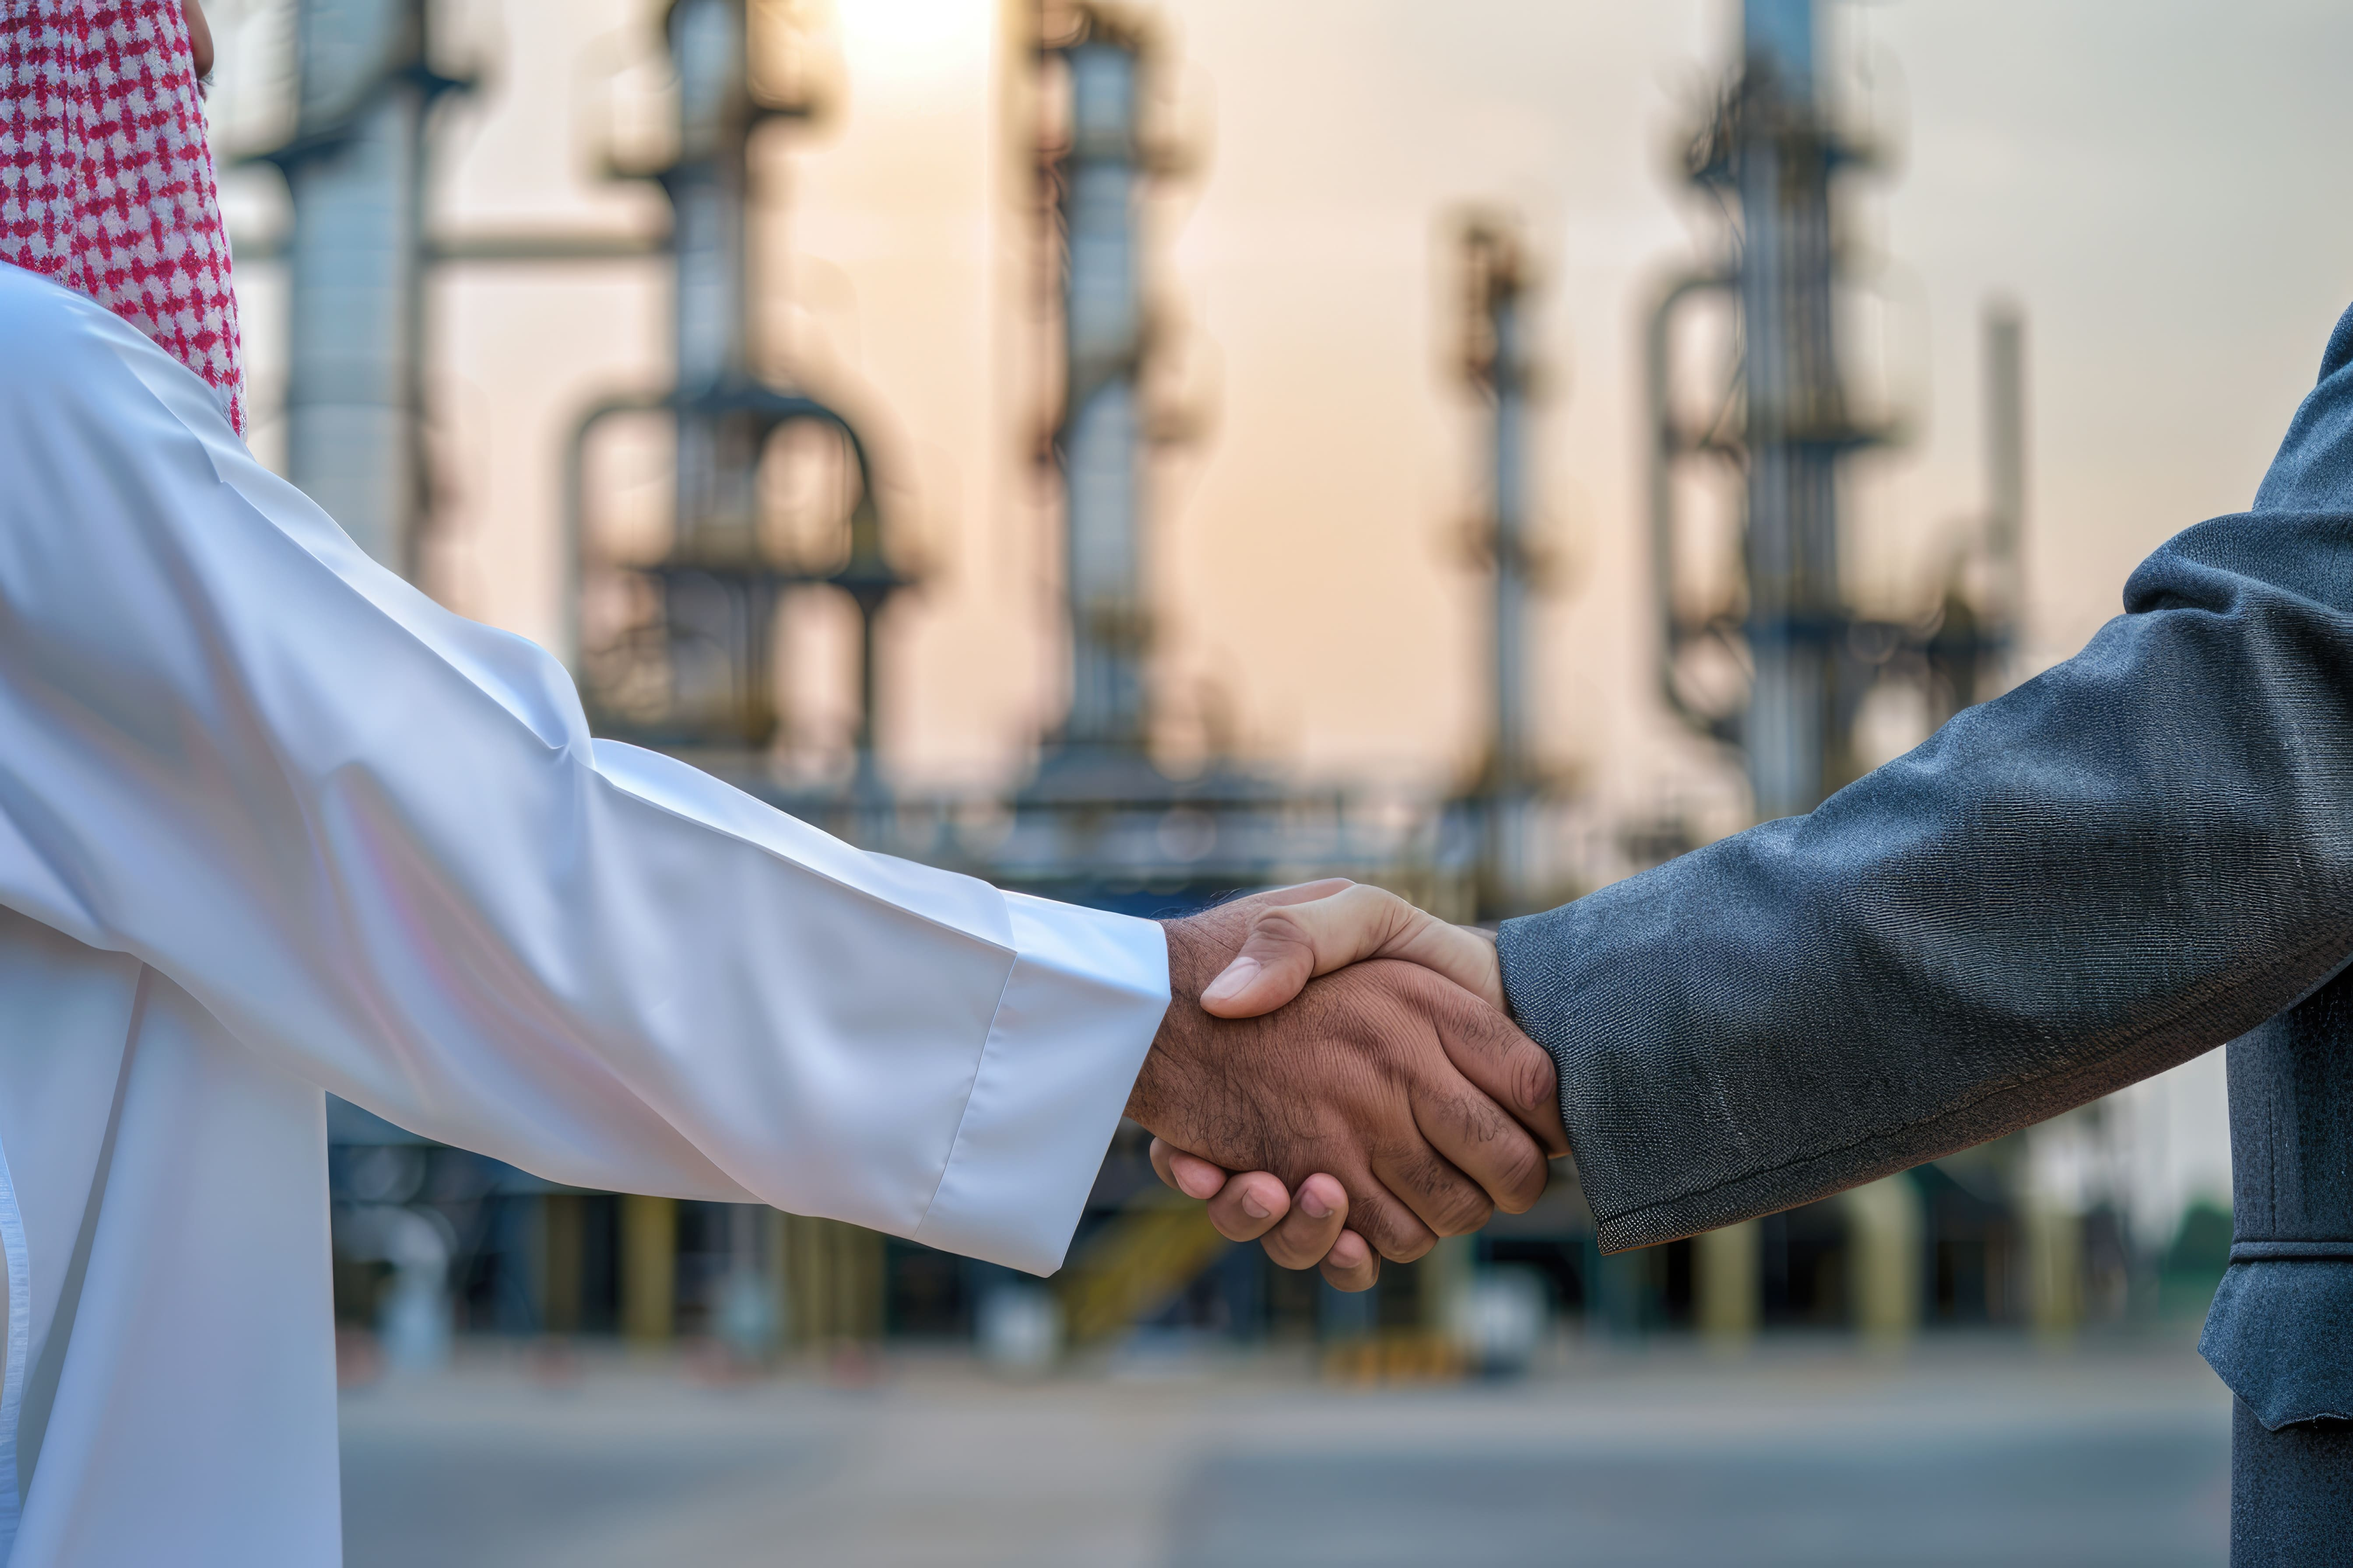
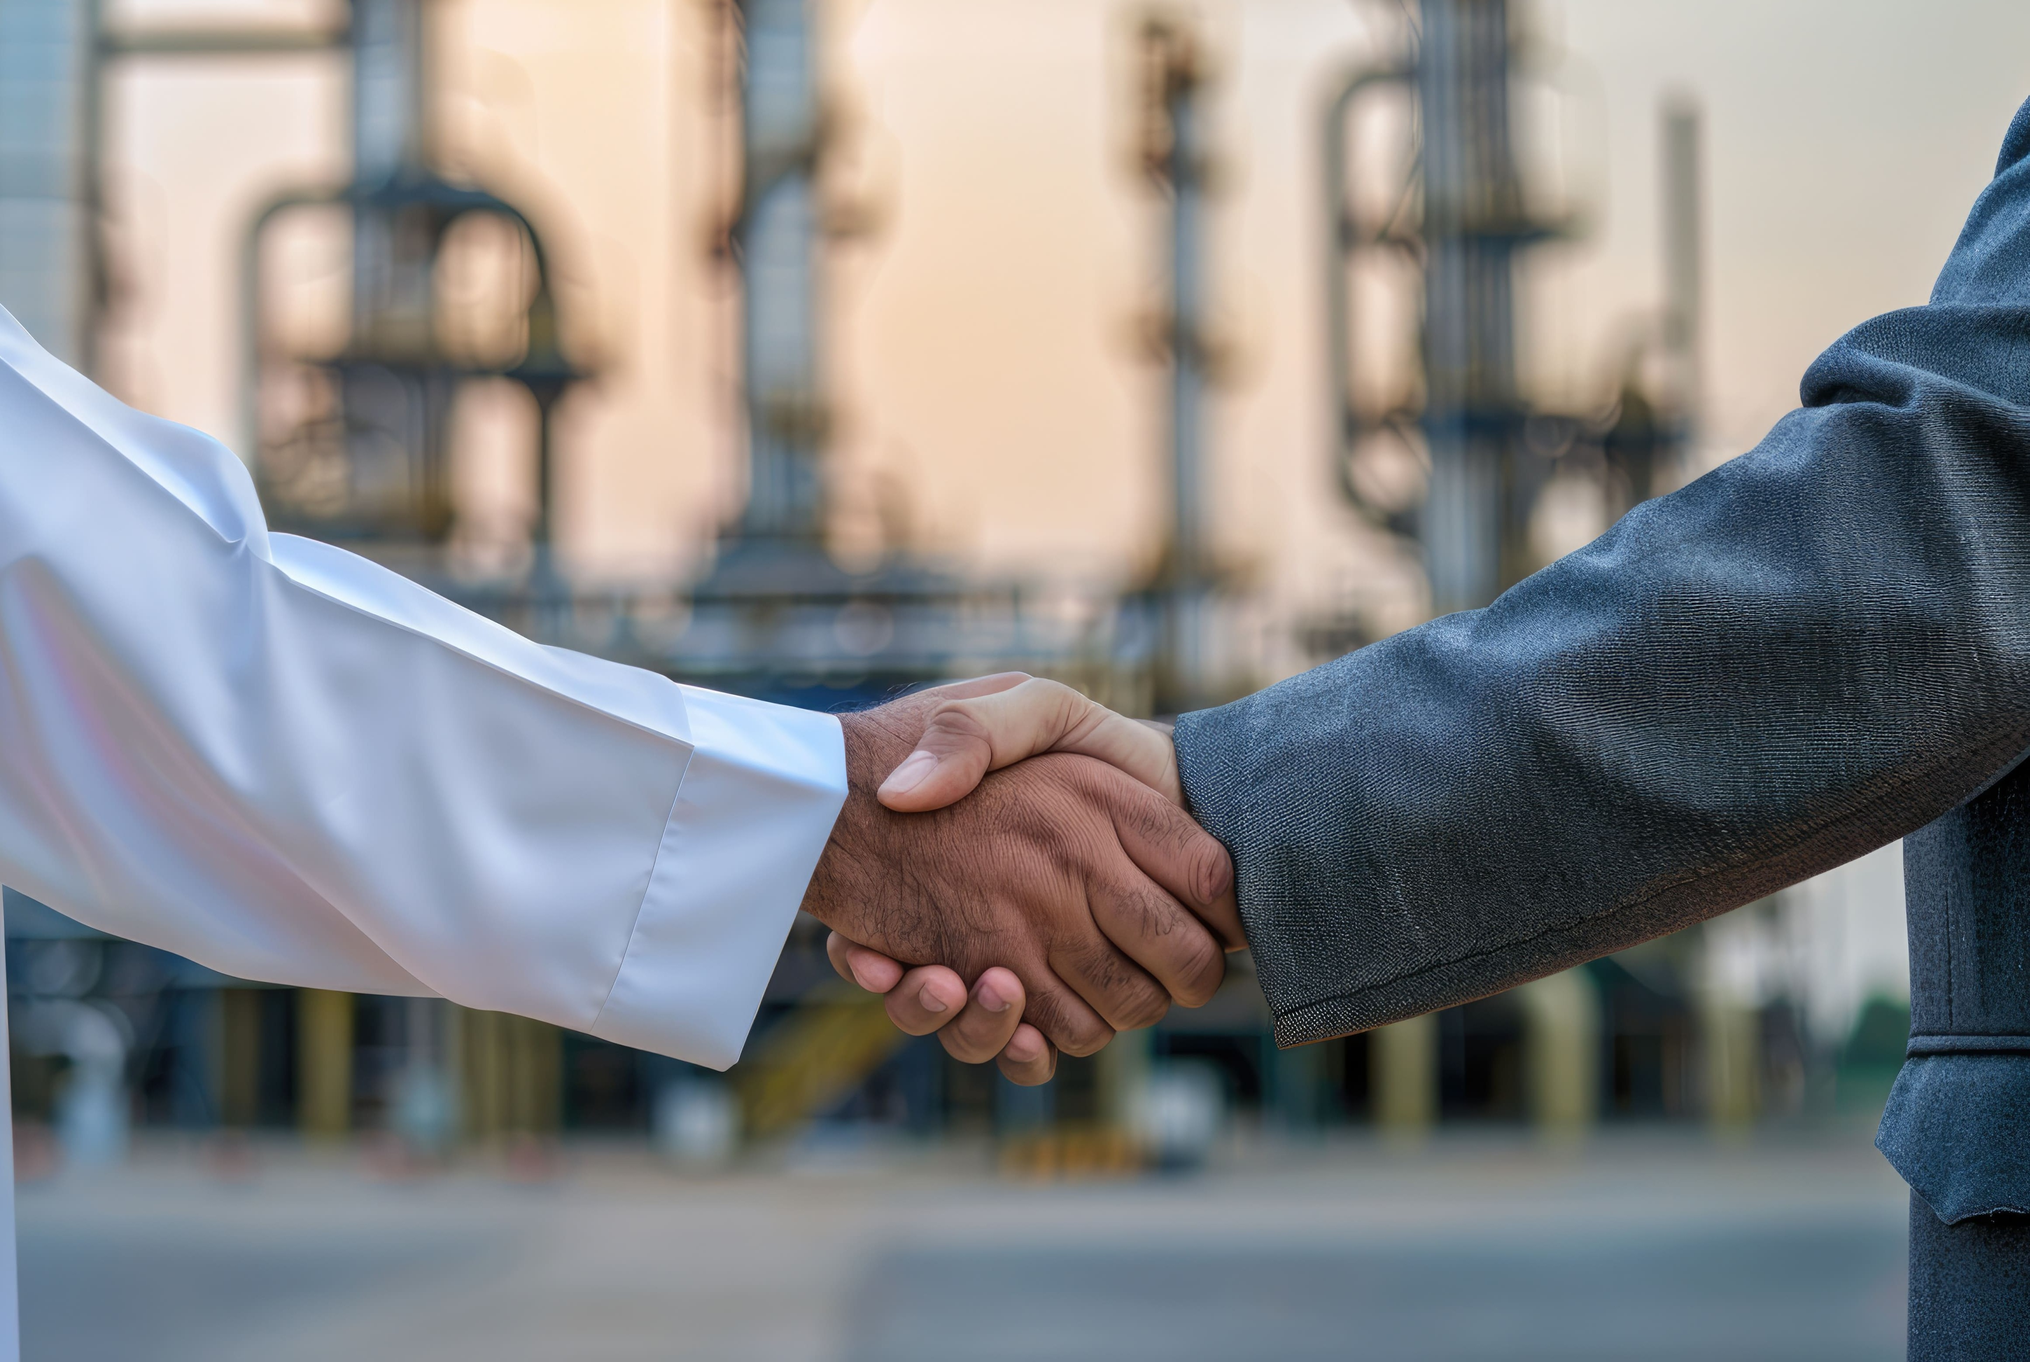
preloader issue resolved, changed people counter and breadcrumb image

diff --git a/people-and-culture.html b/people-and-culture.html
@@ -43,17 +43,32 @@
 
     <!-- preloader start -->
      <div class="preloader js-preloader">
-    <div class="preloader__bg"></div>
+      <div class="preloader__bg"></div>
 
-    <div class="preloader__progress desktop">
-      <div class="preloader__progress__inner"></div>
-      <img src="img/general/dynex-logo.mp4" alt="preloader image" class="preloader__img" />
+      <div class="preloader__progress desktop">
+        <div class="preloader__progress__inner"></div>
+        <video
+          src="img/general/dynex-logo.mp4"
+          class="preloader__video"
+          autoplay
+          muted
+          playsinline
+          loop
+        ></video>
+      </div>
+
+      <div class="preloader__progress mobile">
+        <div class="preloader__progress__inner"></div>
+        <video
+          src="img/general/dynex-mobile.mp4"
+          class="preloader__video"
+          autoplay
+          muted
+          playsinline
+          loop
+        ></video>
+      </div>
     </div>
-    <div class="preloader__progress mobile">
-      <div class="preloader__progress__inner"></div>
-      <img src="img/general/dynex-mobile.mp4" alt="preloader image" class="preloader__img" />
-    </div>
-  </div>
     <!-- preloader end -->
 
     <!-- cursor start -->
@@ -364,7 +379,7 @@
                         <div class="card-container">
 
                             <div class="card card-employees">
-                                <h2><span class="counter" data-target="2660">0</span>+</h2>
+                                <h2><span class="counter" data-target="3300">0</span>+</h2>
                                 <div class="card-title">Employees</div>
                             </div>
 

diff --git a/media.html b/media.html
@@ -51,17 +51,32 @@
   <body class="preloader-visible">
     <!-- preloader start -->
    <div class="preloader js-preloader">
-    <div class="preloader__bg"></div>
+      <div class="preloader__bg"></div>
 
-    <div class="preloader__progress desktop">
-      <div class="preloader__progress__inner"></div>
-      <img src="img/general/dynex-logo.mp4" alt="preloader image" class="preloader__img" />
+      <div class="preloader__progress desktop">
+        <div class="preloader__progress__inner"></div>
+        <video
+          src="img/general/dynex-logo.mp4"
+          class="preloader__video"
+          autoplay
+          muted
+          playsinline
+          loop
+        ></video>
+      </div>
+
+      <div class="preloader__progress mobile">
+        <div class="preloader__progress__inner"></div>
+        <video
+          src="img/general/dynex-mobile.mp4"
+          class="preloader__video"
+          autoplay
+          muted
+          playsinline
+          loop
+        ></video>
+      </div>
     </div>
-    <div class="preloader__progress mobile">
-      <div class="preloader__progress__inner"></div>
-      <img src="img/general/dynex-mobile.mp4" alt="preloader image" class="preloader__img" />
-    </div>
-  </div>
     <!-- preloader end -->
 
     <!-- cursor start -->

diff --git a/our-solutions.html b/our-solutions.html
@@ -37,17 +37,32 @@
 <body class="preloader-visible">
     <!-- preloader start -->
      <div class="preloader js-preloader">
-    <div class="preloader__bg"></div>
+      <div class="preloader__bg"></div>
 
-    <div class="preloader__progress desktop">
-      <div class="preloader__progress__inner"></div>
-      <img src="img/general/dynex-logo.mp4" alt="preloader image" class="preloader__img" />
+      <div class="preloader__progress desktop">
+        <div class="preloader__progress__inner"></div>
+        <video
+          src="img/general/dynex-logo.mp4"
+          class="preloader__video"
+          autoplay
+          muted
+          playsinline
+          loop
+        ></video>
+      </div>
+
+      <div class="preloader__progress mobile">
+        <div class="preloader__progress__inner"></div>
+        <video
+          src="img/general/dynex-mobile.mp4"
+          class="preloader__video"
+          autoplay
+          muted
+          playsinline
+          loop
+        ></video>
+      </div>
     </div>
-    <div class="preloader__progress mobile">
-      <div class="preloader__progress__inner"></div>
-      <img src="img/general/dynex-mobile.mp4" alt="preloader image" class="preloader__img" />
-    </div>
-  </div>
     <!-- preloader end -->
 
     <!-- cursor start -->

diff --git a/404.html b/404.html
@@ -37,17 +37,32 @@
 <body class="preloader-visible">
   <!-- preloader start -->
   <div class="preloader js-preloader">
-    <div class="preloader__bg"></div>
+      <div class="preloader__bg"></div>
 
-    <div class="preloader__progress desktop">
-      <div class="preloader__progress__inner"></div>
-      <img src="img/general/dynex-logo.mp4" alt="preloader image" class="preloader__img" />
+      <div class="preloader__progress desktop">
+        <div class="preloader__progress__inner"></div>
+        <video
+          src="img/general/dynex-logo.mp4"
+          class="preloader__video"
+          autoplay
+          muted
+          playsinline
+          loop
+        ></video>
+      </div>
+
+      <div class="preloader__progress mobile">
+        <div class="preloader__progress__inner"></div>
+        <video
+          src="img/general/dynex-mobile.mp4"
+          class="preloader__video"
+          autoplay
+          muted
+          playsinline
+          loop
+        ></video>
+      </div>
     </div>
-    <div class="preloader__progress mobile">
-      <div class="preloader__progress__inner"></div>
-      <img src="img/general/dynex-mobile.mp4" alt="preloader image" class="preloader__img" />
-    </div>
-  </div>
   <!-- preloader end -->
 
   <!-- cursor start -->

diff --git a/our-projects.html b/our-projects.html
@@ -43,17 +43,32 @@
 
     <!-- preloader start -->
      <div class="preloader js-preloader">
-    <div class="preloader__bg"></div>
+      <div class="preloader__bg"></div>
 
-    <div class="preloader__progress desktop">
-      <div class="preloader__progress__inner"></div>
-      <img src="img/general/dynex-logo.mp4" alt="preloader image" class="preloader__img" />
+      <div class="preloader__progress desktop">
+        <div class="preloader__progress__inner"></div>
+        <video
+          src="img/general/dynex-logo.mp4"
+          class="preloader__video"
+          autoplay
+          muted
+          playsinline
+          loop
+        ></video>
+      </div>
+
+      <div class="preloader__progress mobile">
+        <div class="preloader__progress__inner"></div>
+        <video
+          src="img/general/dynex-mobile.mp4"
+          class="preloader__video"
+          autoplay
+          muted
+          playsinline
+          loop
+        ></video>
+      </div>
     </div>
-    <div class="preloader__progress mobile">
-      <div class="preloader__progress__inner"></div>
-      <img src="img/general/dynex-mobile.mp4" alt="preloader image" class="preloader__img" />
-    </div>
-  </div>
     <!-- preloader end -->
 
     <!-- cursor start -->

diff --git a/contact.html b/contact.html
@@ -38,17 +38,32 @@
 
   <!-- preloader start -->
    <div class="preloader js-preloader">
-    <div class="preloader__bg"></div>
+      <div class="preloader__bg"></div>
 
-    <div class="preloader__progress desktop">
-      <div class="preloader__progress__inner"></div>
-      <img src="img/general/dynex-logo.mp4" alt="preloader image" class="preloader__img" />
+      <div class="preloader__progress desktop">
+        <div class="preloader__progress__inner"></div>
+        <video
+          src="img/general/dynex-logo.mp4"
+          class="preloader__video"
+          autoplay
+          muted
+          playsinline
+          loop
+        ></video>
+      </div>
+
+      <div class="preloader__progress mobile">
+        <div class="preloader__progress__inner"></div>
+        <video
+          src="img/general/dynex-mobile.mp4"
+          class="preloader__video"
+          autoplay
+          muted
+          playsinline
+          loop
+        ></video>
+      </div>
     </div>
-    <div class="preloader__progress mobile">
-      <div class="preloader__progress__inner"></div>
-      <img src="img/general/dynex-mobile.mp4" alt="preloader image" class="preloader__img" />
-    </div>
-  </div>
   <!-- preloader end -->
 
   <!-- cursor start -->

diff --git a/about-us.html b/about-us.html
@@ -55,19 +55,26 @@
 
       <div class="preloader__progress desktop">
         <div class="preloader__progress__inner"></div>
-        <img
+        <video
           src="img/general/dynex-logo.mp4"
-          alt="preloader image"
-          class="preloader__img"
-        />
+          class="preloader__video"
+          autoplay
+          muted
+          playsinline
+          loop
+        ></video>
       </div>
+
       <div class="preloader__progress mobile">
         <div class="preloader__progress__inner"></div>
-        <img
+        <video
           src="img/general/dynex-mobile.mp4"
-          alt="preloader image"
-          class="preloader__img"
-        />
+          class="preloader__video"
+          autoplay
+          muted
+          playsinline
+          loop
+        ></video>
       </div>
     </div>
     <!-- preloader end -->

diff --git a/sustainability.html b/sustainability.html
@@ -59,19 +59,26 @@
 
       <div class="preloader__progress desktop">
         <div class="preloader__progress__inner"></div>
-        <img
+        <video
           src="img/general/dynex-logo.mp4"
-          alt="preloader image"
-          class="preloader__img"
-        />
+          class="preloader__video"
+          autoplay
+          muted
+          playsinline
+          loop
+        ></video>
       </div>
+
       <div class="preloader__progress mobile">
         <div class="preloader__progress__inner"></div>
-        <img
+        <video
           src="img/general/dynex-mobile.mp4"
-          alt="preloader image"
-          class="preloader__img"
-        />
+          class="preloader__video"
+          autoplay
+          muted
+          playsinline
+          loop
+        ></video>
       </div>
     </div>
     <!-- preloader end -->
